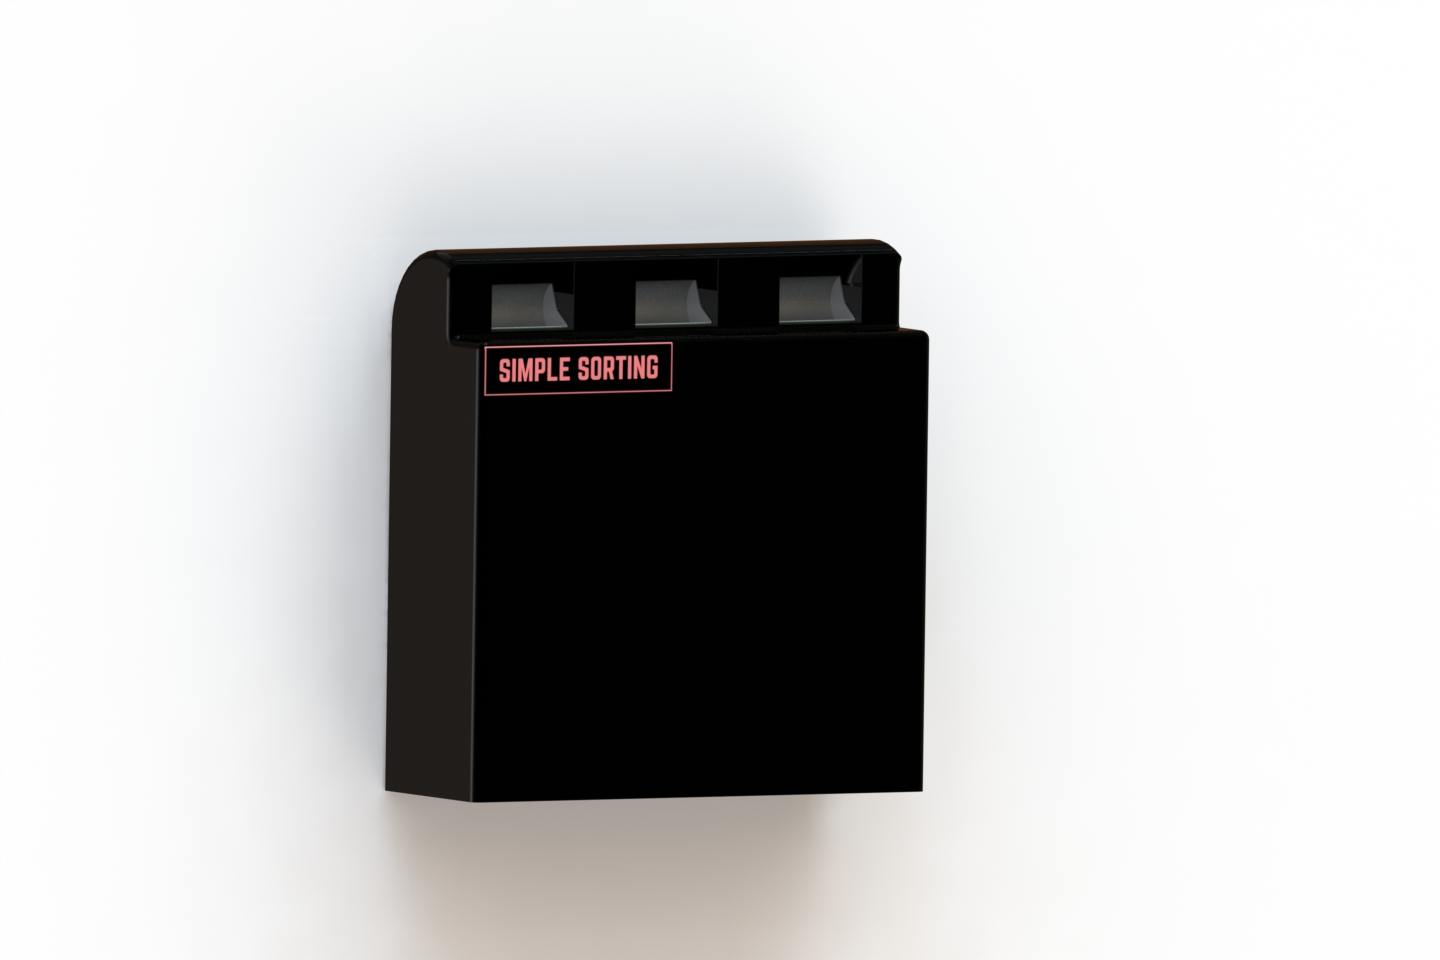
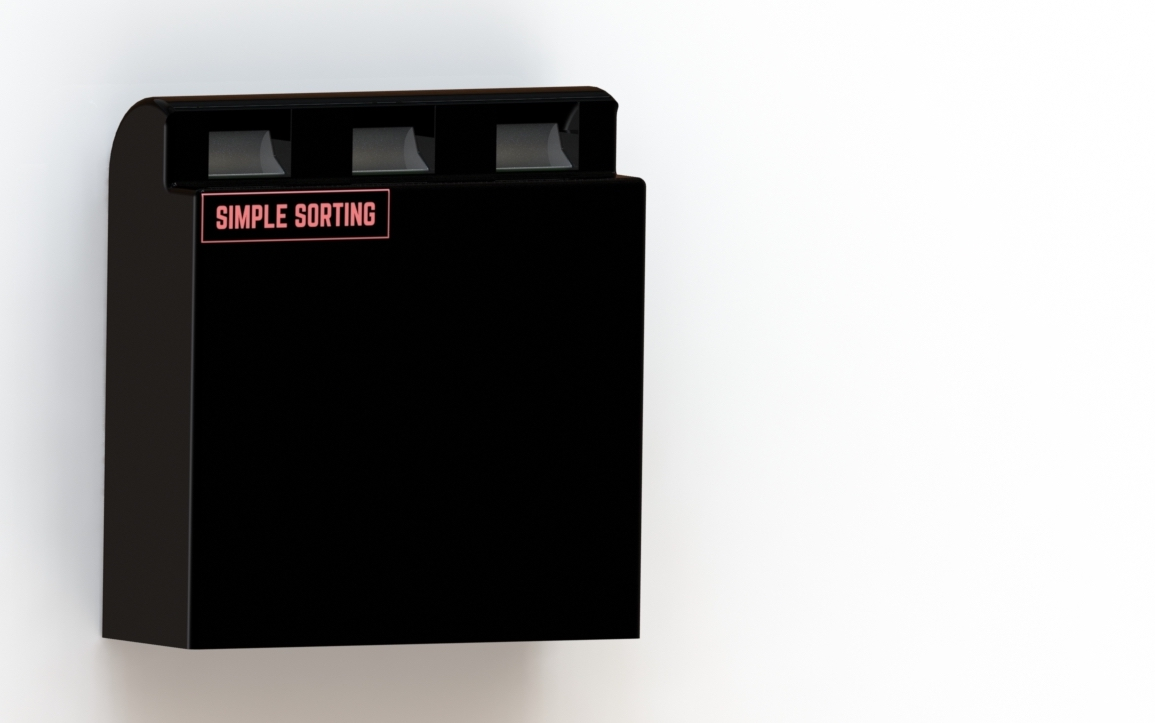
project add

diff --git a/src/components/home/Projects.js b/src/components/home/Projects.js
@@ -12,36 +12,45 @@ const Projects = () => {
   </section>
   
   <section>
-      <div class="parallax-one">
-        <h2>SOUTHERN CALIFORNIA</h2>
+      <div class="parallax-one min-vh-100 align-content-center align-items-center">
+        <h2>The FloBoat</h2>
+        <h3>a floating beach wheelchair.</h3>
       </div>
   </section>
   
   <section>
-    <div class="block">
-      <p><span class="first-character sc">I</span>n 1978, Brian Smith landed in Southern California with a bag of sheepskin boots and hope. He fell in love with the sheepskin experience and was convinced the world would one day share this love. The beaches of Southern California had long been an epicenter of a relaxed, casual lifestyle, a lifestyle that Brian felt was a perfect fit for his brand. So he founded the UGG brand, began selling his sheepskin boots and they were an immediate sensation. By the mid 1980's, the UGG brand became a symbol of relaxed southern California culture, gaining momentum through surf shops and other shops up and down the coast of California, from San Diego to Santa Cruz. UGG boots reached beyond the beach, popping up in big cities and small towns all over, and in every level of society. Girls wore their surfer boyfriend's pair of UGG boots like a letterman jacket. When winter came along, UGG boots were in ski shops and were seen in lodges from Mammoth to Aspen.</p>
+    <div class="block jumbotron jumbotron-fluid bgstyle min-vh-100 d-flex align-content-center align-items-center flex-wrap ">
+      <p><span class="first-character sc">W</span>heelchair users make up 1% of the global population. The increased social awareness of immobile individuals across the past century has driven engineers into creating the adaptable wheelchair design seen in the present day. Technology advances have brought about the increased integration of wheelchair users into society by providing support; in completing daily tasks and in participating in specific leisure activities, however, the majority of water activities remain inaccessible.
+Therefore, a design opportunity was recognised which subsequently fuelled this study in creating the FloBoat, a wheelchair that provides support to individuals when in the water and on the beach. The FloBoat journeyed through a rigorous design approach, fulfilling the necessary design requirements to operate with maximum functionality and effectiveness. Throughout the design analysis, investigations were completed on design tasks such as material selection, hydrostatics and stability.
+Finite Element Analysis alongside a material selection database, GRANTA EduPack, deduced component materials and a suitable fibre layup for the CFRP-based chair body.</p>
       <p class="line-break margin-top-10"></p>
-      <p class="margin-top-10">The UGG brand began to symbolize those who embraced sport and a relaxed, active lifestyle. More than that, an emotional connection and a true feeling of love began to grow for UGG boots, just as Brian had envisioned. People didn't just like wearing UGG boots, they fell in love with them and literally could not take them off. By the end of the 90's, celebrities and those in the fashion world took notice of the UGG brand. A cultural shift occurred as well - people were embracing, and feeling empowered, by living a more casual lifestyle and UGG became one of the symbols of this lifestyle. By 2000, a love that began on the beaches had become an icon of casual style. It was at this time that the love for UGG grew in the east, over the Rockies and in Chicago. In 2000, UGG Sheepskin boots were first featured on Oprah's Favorite Things® and Oprah emphatically declared that she "LOOOOOVES her UGG boots." From that point on, the world began to notice.</p>
+      <p class="margin-top-10">The FloBoat demonstrated the ability to float and achieved an average draft of 659mm at 26.4° from the base. Stability in water was additionally attained when the metacentric height of the final design was calculated to be 0.0014m indicating initial device stability. The final design was created as a Computer-Aided Design model. Manufacturing and business plans were subsequently compiled to assess the financial feasibility of the FloBoat. The pricing model achieved a healthy gross margin averaging to 67.8% leading to 5-year projections that indicate a breakeven point in the first operating year after 146 sales. This design study has fashioned an economical device that can effectively support immobile individuals in enjoying the water whilst maintaining health, safety and durability standards.</p>
     </div>
   </section>
   
   <section>
-    <div class="parallax-two">
-      <h2>NEW YORK</h2>
+    <div class="parallax-two min-vh-100 align-content-center align-items-center">
+      <h4 >Simple Sorting</h4>
+      <h5>an automated recyling sorting bin.</h5>
     </div>
   </section>
   
   <section>
-    <div class="block">
-      <p><span class="first-character ny">B</span>reaking into the New York fashion world is no easy task. But by the early 2000's, UGG Australia began to take it by storm. The evolution of UGG from a brand that made sheepskin boots, slippers, clogs and sandals for an active, outdoor lifestyle to a brand that was now being touted as a symbol of a stylish, casual and luxurious lifestyle was swift. Much of this was due to a brand repositioning effort that transformed UGG into a high-end luxury footwear maker. As a fashion brand, UGG advertisements now graced the pages of Vogue Magazine as well as other fashion books. In the mid 2000's, the desire for premium casual fashion was popping up all over the world and UGG was now perfectly aligned with this movement.</p>
+    <div class="block jumbotron jumbotron-fluid bgstyle min-vh-100 d-flex align-content-center align-items-center flex-wrap ">
+      <p><span class="first-character ny">H</span>Half of the plastic that has ever been generated has been produced in the last 13 years. If these recent trends continue, it is estimated that 26 billion tons of plastic will be produced in the next 30 years. To reduce these environmental impacts the radical way of thinking needs to be changed, by optimising the use of this material and increasing its life cycle through reuse and recycling [1]. Statistics show that 15% of waste that arrive at recycling plants are non-recyclable or highly contaminated [2]. Thus, making it difficult for waste management facilities to be accurate during the recycling process, which results in wasting time, money, and labor.
+Promoting proper waste management, by combining education models and appropriate technologies, is a key contribution to sustainable development. The aim of the project is to overcome these difficulties by developing a self-sorting machine with the implementation of artificial intelligence. The goal is to separate recyclables from non-recyclables, thus preventing the presences of unwanted waste at recycling plants beforehand.
+Once the purpose and design of the product was chosen, a questionnaire was conducted for primary research regarding the potential market of the automatic recycling bin. The research concluded that Universities are the best potential market for the sorting machine as on average Universities in the UK spend £250,000 a year on waste management and a potential market size of £1.08 million was estimated.
+Simple Sorting was designed, developed and tested by group Pangea according to the Universities needs and demands by incorporating Google Cloud Vision API. This was achieved by developing design evaluation criteria and costumer competitive assessment, which concluded that Simple Sorting would be designed to be eco- friendly and highly affordable compared to existing products on the market.</p>
       <p class="line-break margin-top-10"></p>
-      <p class="margin-top-10">Fueled by celebrities from coast to coast wearing UGG boots and slippers on their downtime, an entirely new era of fashion was carved out. As a result, the desire and love for UGG increased as people wanted to go deeper into this relaxed UGG experience. UGG began offering numerous color and style variations on their sheepskin boots and slippers. Cold weather boots for women and men and leather casuals were added with great success. What started as a niche item, UGG sheepskin boots were now a must-have staple in everyone's wardrobe. More UGG collections followed, showcasing everything from knit boots to sneakers to wedges, all the while maintaining that luxurious feel UGG is known for all over the world. UGG products were now seen on runways and in fashion shoots from coast to coast. Before long, the love spread even further.</p>
+      <p class="margin-top-10">To satisfy these requirements Finite Element Analysis was used to determine which material was most suitable for this design and to understand the service life of the product, which came to 10.3 years.
+Group Pangea developed a prototype which demonstrated the ability of Simple Sorting to sort different types of waste according to recyclable or non-recyclable. This was achieved with the Google AIY Vision Kit which operates by means of image recognition. An evaluation plan was developed to understand if the final prototype would have met the design criteria establish at the beginning of the project.
+Finally, a Manufacturing and Business plan were developed for Simple Sorting, concluding that the manufacturing location would be established in China, the market location would be focused initially at UK universities, and gradually expand to Europe. The financial model estimated that profit is made after the second year of operation by selling bins at a feasible price of £380 with a monthly subscription fee of £15.</p>
     </div>
   </section>
   
   <section>
     <div class="parallax-three">
-      <h2>ENCHANTED FOREST</h2>
+      <h2>The Finite Element Analysis of a Tidal Turbine</h2>
     </div>
   </section>
   
@@ -52,7 +61,20 @@ const Projects = () => {
       <p class="margin-top-10">In 2011, UGG will go back to its roots and focus on bringing the active men that brought the brand to life back with new styles allowing them to love the brand again as well. Partnering with Super Bowl champion and NFL MVP Tom Brady, UGG will invite even more men to feel the love the rest of the world knows so well. UGG will also step into the world of high fashion with UGG Collection. The UGG Collection fuses the timeless craft of Italian shoemaking with the reliable magic of sheepskin, bringing the luxurious feel of UGG to high end fashion. As the love for UGG continues to spread across the world, we have continued to offer new and unexpected ways to experience the brand. The UGG journey continues on and the love for UGG continues to spread.</p>
     </div>
   </section>
-    
+
+  <section>
+    <div class="parallax-four">
+      <h2>The Trike</h2>
+    </div>
+  </section>
+  
+  <section>
+    <div class="block">
+      <p><span class="first-character atw">W</span>hen the New York fashion community notices your brand, the world soon follows. The widespread love for UGG extended to Europe in the mid-2000's along with the stylish casual movement and demand for premium casual fashion. UGG boots and shoes were now seen walking the streets of London, Paris and Amsterdam with regularity. To meet the rising demand from new fans, UGG opened flagship stores in the UK and an additional location in Moscow. As the love spread farther East, concept stores were opened in Beijing, Shanghai and Tokyo. UGG Australia is now an international brand that is loved by all. This love is a result of a magical combination of the amazing functional benefits of sheepskin and the heightened emotional feeling you get when you slip them on your feet. In short, you just feel better all over when you wear UGG boots, slippers, and shoes.</p>
+      <p class="line-break margin-top-10"></p>
+      <p class="margin-top-10">In 2011, UGG will go back to its roots and focus on bringing the active men that brought the brand to life back with new styles allowing them to love the brand again as well. Partnering with Super Bowl champion and NFL MVP Tom Brady, UGG will invite even more men to feel the love the rest of the world knows so well. UGG will also step into the world of high fashion with UGG Collection. The UGG Collection fuses the timeless craft of Italian shoemaking with the reliable magic of sheepskin, bringing the luxurious feel of UGG to high end fashion. As the love for UGG continues to spread across the world, we have continued to offer new and unexpected ways to experience the brand. The UGG journey continues on and the love for UGG continues to spread.</p>
+    </div>
+  </section>
   </div>
   );
 };

diff --git a/src/css/Projects.css b/src/css/Projects.css
@@ -13,11 +13,14 @@
 
 /* Typography */
 /**************************/
-#projects h1 {font-family:'Oswald', sans-serif; font-size:24px; font-weight:400; text-transform: uppercase; color:black; padding:0; margin:0;}
-#projects h2 {font-family:'Oswald', sans-serif; font-size:70px; letter-spacing:10px; text-align:center; color:white; font-weight:400; text-transform:uppercase; z-index:10; opacity:.9;}
-#projects h3 {font-family:'Oswald', sans-serif; font-size:14px; line-height:0; font-weight:400; letter-spacing:8px; text-transform: uppercase; color:black;}
-#projects p {font-family:'Source Sans Pro', sans-serif; font-weight:400; font-size:14px; line-height:24px;}
+#projects h1 {font-size:24px; font-weight:300; color:black; padding:0; margin:0;}
+#projects h2 {font-size:70px;text-align:left; color:rgb(0, 0, 0); margin: 0px; font-weight:400; z-index:10; padding: 150px 60px 0px 60px; opacity:.9;}
+#projects h3 {font-size:35px; text-align:left; font-weight:400; margin: 0px; padding: 0px 60px 150px 70px; opacity:.9;font-weight:400; color:black;}
+#projects h4 {font-size:70px;text-align:right; color:rgb(0, 0, 0); margin: 0px; font-weight:400; z-index:10; padding: 150px 60px 0px 60px; opacity:.9;}
+#projects h5 {font-size:35px; text-align:right; font-weight:400; margin: 0px; padding: 0px 60px 150px 70px; opacity:.9;font-weight:400; color:black;}
+#projects p {font-weight:300; font-size:20px;}
 .first-character {font-weight:400; float: left; font-size: 84px; line-height: 64px; padding-top: 4px; padding-right: 8px; padding-left: 3px; font-family: 'Source Sans Pro', sans-serif;}
+
 
 .sc {color: #3b8595;}
 .ny {color: #3d3c3a;}
@@ -25,21 +28,21 @@
 
 /* Section - Title */
 /**************************/
-#projects .title {background: white; padding: 60px; margin:0 auto; text-align:center;}
-#projects .title h1 {font-size:35px; letter-spacing:8px;}
+#projects .title {background: white; padding: 200px; margin:0 auto; text-align:center;}
+#projects .title h1 {font-size:3.5rem;}
 
 /* Section - Block */
 /**************************/
-#projects .block {background: white; padding: 60px; width:820px; margin:0 auto; text-align:justify;}
+#projects .block {background: white; padding: 60px; width:1200px; margin: auto; text-align:justify; }
 #projects .block-gray {background: #f2f2f2;padding: 60px;}
 #projects .section-overlay-mask {position: absolute; top: 0; left: 0; width: 100%; height: 100%; background-color: black; opacity: 0.70;}
 
 /* Section - Parallax */
 /**************************/
-#projects .parallax-one {padding-top: 200px; padding-bottom: 200px; overflow: hidden; position: relative; width: 100%; background-image: url(https://images.unsplash.com/photo-1415018255745-0ec3f7aee47b?dpr=1&auto=format&fit=crop&w=1500&h=938&q=80&cs=tinysrgb&crop=); background-attachment: fixed; background-size: cover; -moz-background-size: cover; -webkit-background-size: cover; background-repeat: no-repeat; background-position: top center;}
-#projects .parallax-two {padding-top: 200px; padding-bottom: 200px; overflow: hidden; position: relative; width: 100%; background-image: url(https://images.unsplash.com/photo-1432163230927-a32e4fd5a326?dpr=1&auto=format&fit=crop&w=1500&h=1000&q=80&cs=tinysrgb&crop=); background-attachment: fixed; background-size: cover; -moz-background-size: cover; -webkit-background-size: cover; background-repeat: no-repeat; background-position: center center;}
+#projects .parallax-one {padding-top: 200px; padding-bottom: 200px; overflow: hidden; position: relative; width: 100%; background-image: url('floboat.jpg'); background-attachment: fixed; background-size: cover; -moz-background-size: cover; -webkit-background-size: cover; background-repeat: no-repeat; background-position: top center;}
+#projects .parallax-two {padding-top: 200px; padding-bottom: 200px; overflow: hidden; position: relative; width: 100%; background-image: url('ss.jpg'); background-attachment: fixed; background-size: cover; -moz-background-size: cover; -webkit-background-size: cover; background-repeat: no-repeat; background-position: center center;}
 #projects .parallax-three {padding-top: 200px; padding-bottom: 200px; overflow: hidden; position: relative; width: 100%; background-image: url(https://images.unsplash.com/photo-1440688807730-73e4e2169fb8?dpr=1&auto=format&fit=crop&w=1500&h=1001&q=80&cs=tinysrgb&crop=); background-attachment: fixed; background-size: cover; -moz-background-size: cover; -webkit-background-size: cover; background-repeat: no-repeat; background-position: center center;}
-
+#projects .parallax-four {padding-top: 200px; padding-bottom: 200px; overflow: hidden; position: relative; width: 100%; background-image: url(https://images.unsplash.com/photo-1440688807730-73e4e2169fb8?dpr=1&auto=format&fit=crop&w=1500&h=1001&q=80&cs=tinysrgb&crop=); background-attachment: fixed; background-size: cover; -moz-background-size: cover; -webkit-background-size: cover; background-repeat: no-repeat; background-position: center center;}
 /* Extras */
 /**************************/
 #projects .line-break {border-bottom:1px solid black; width: 150px; margin:0 auto;}
